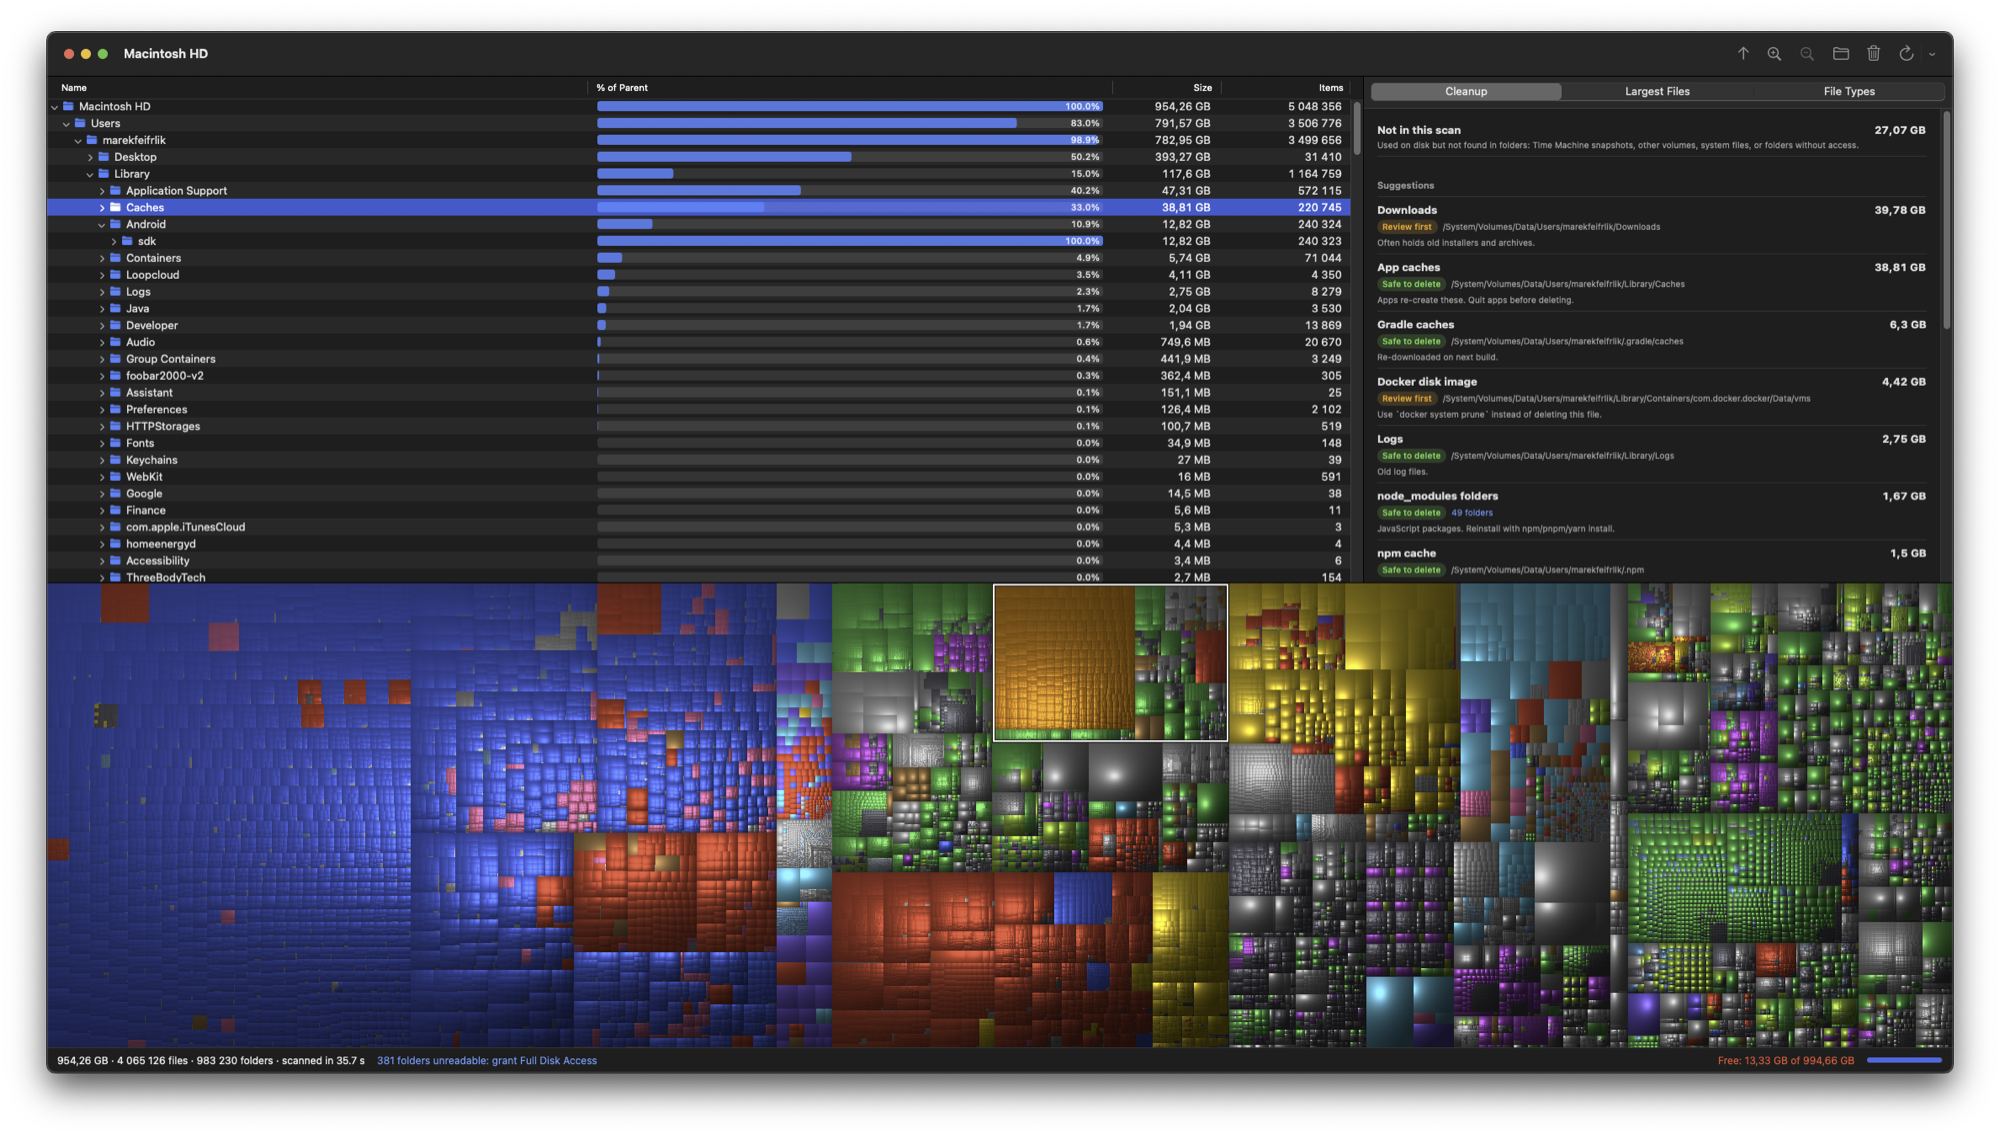
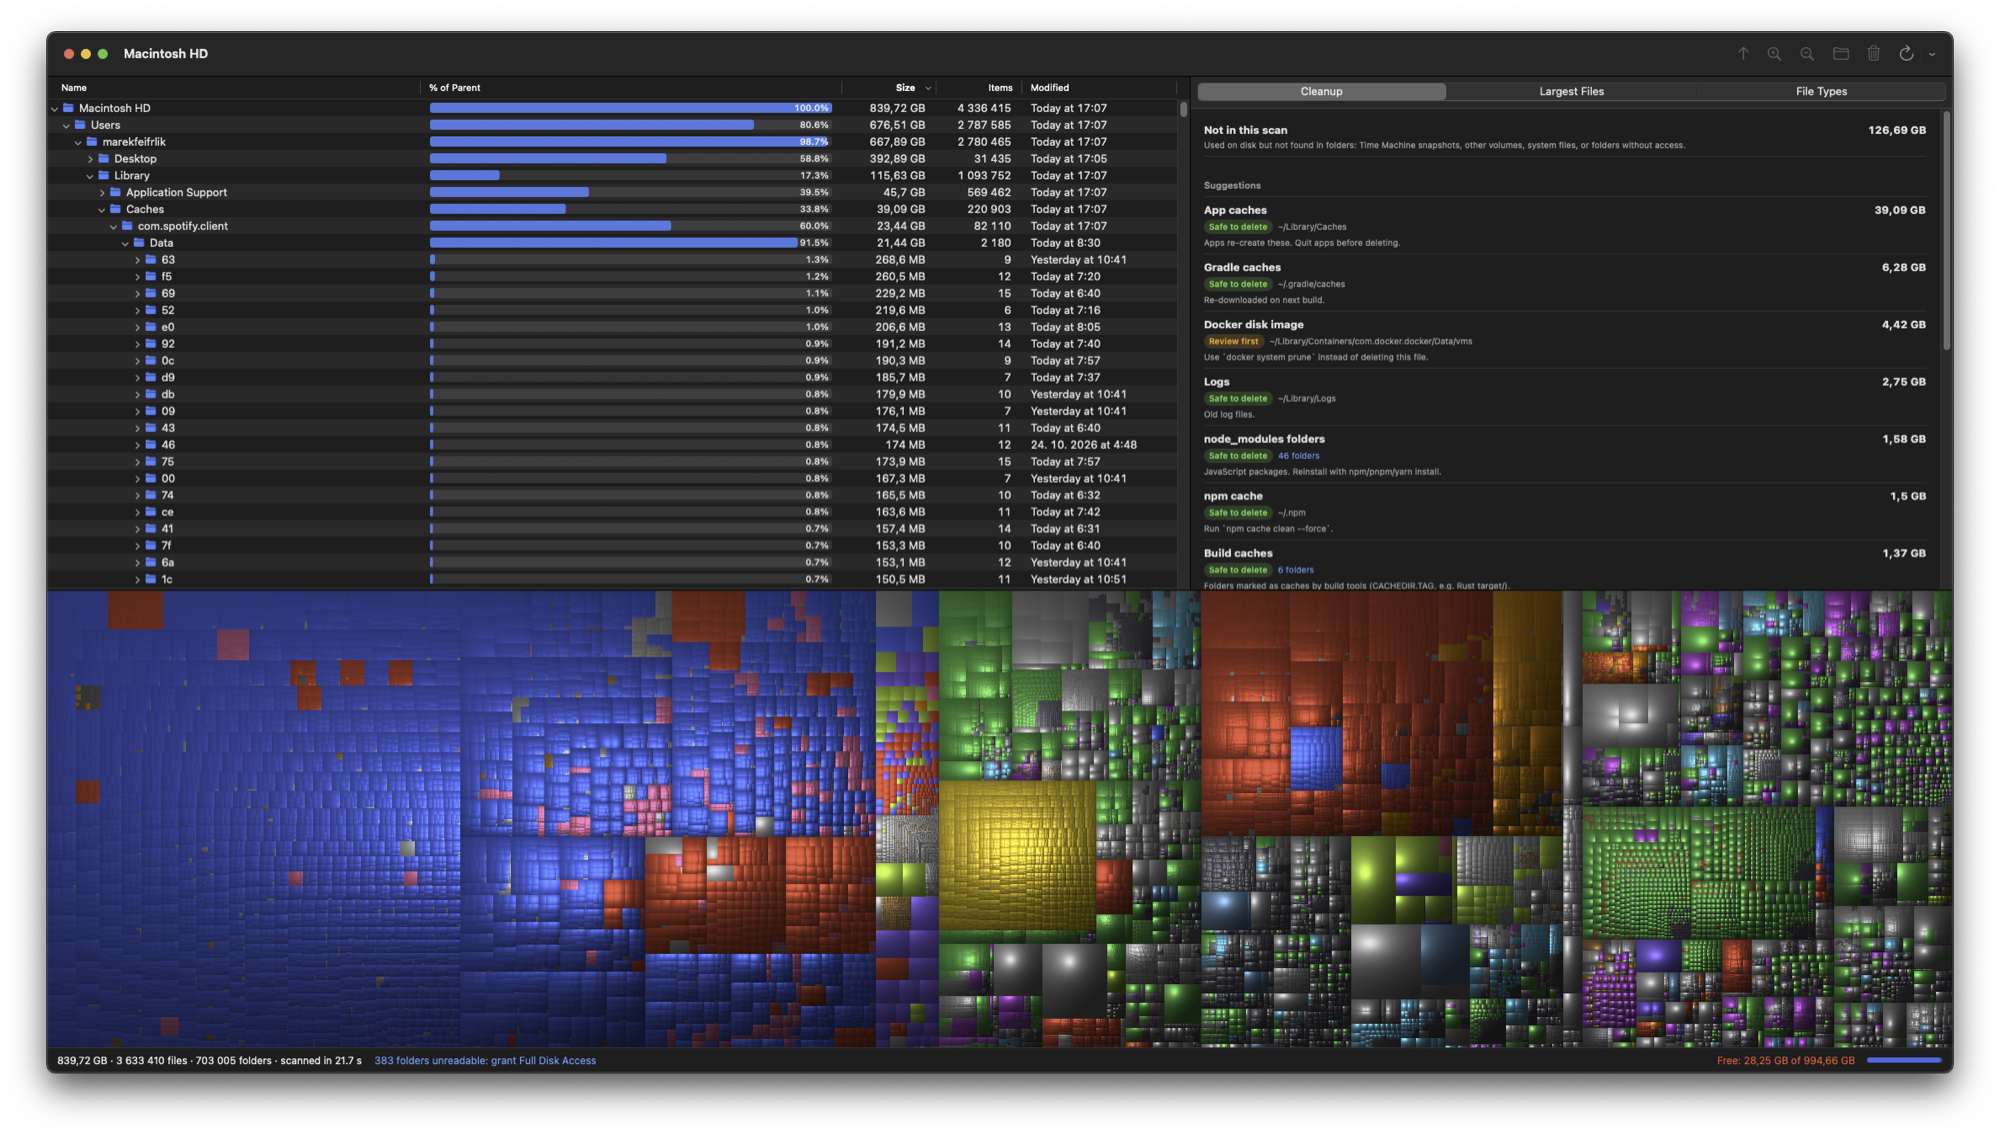
docs: new screenshot with the Modified column

diff --git a/README.md b/README.md
@@ -5,7 +5,7 @@
 A disk usage viewer for macOS: see which folders fill your disk and what is safe to delete.
 Native SwiftUI + AppKit, no dependencies.
 
-![DirectStat showing a folder tree sorted by size, cleanup suggestions, and a treemap](docs/screenshot.png)
+![DirectStat showing a folder tree sorted by size with modification dates, cleanup suggestions, and a treemap](docs/screenshot.png)
 
 ## Why
 
